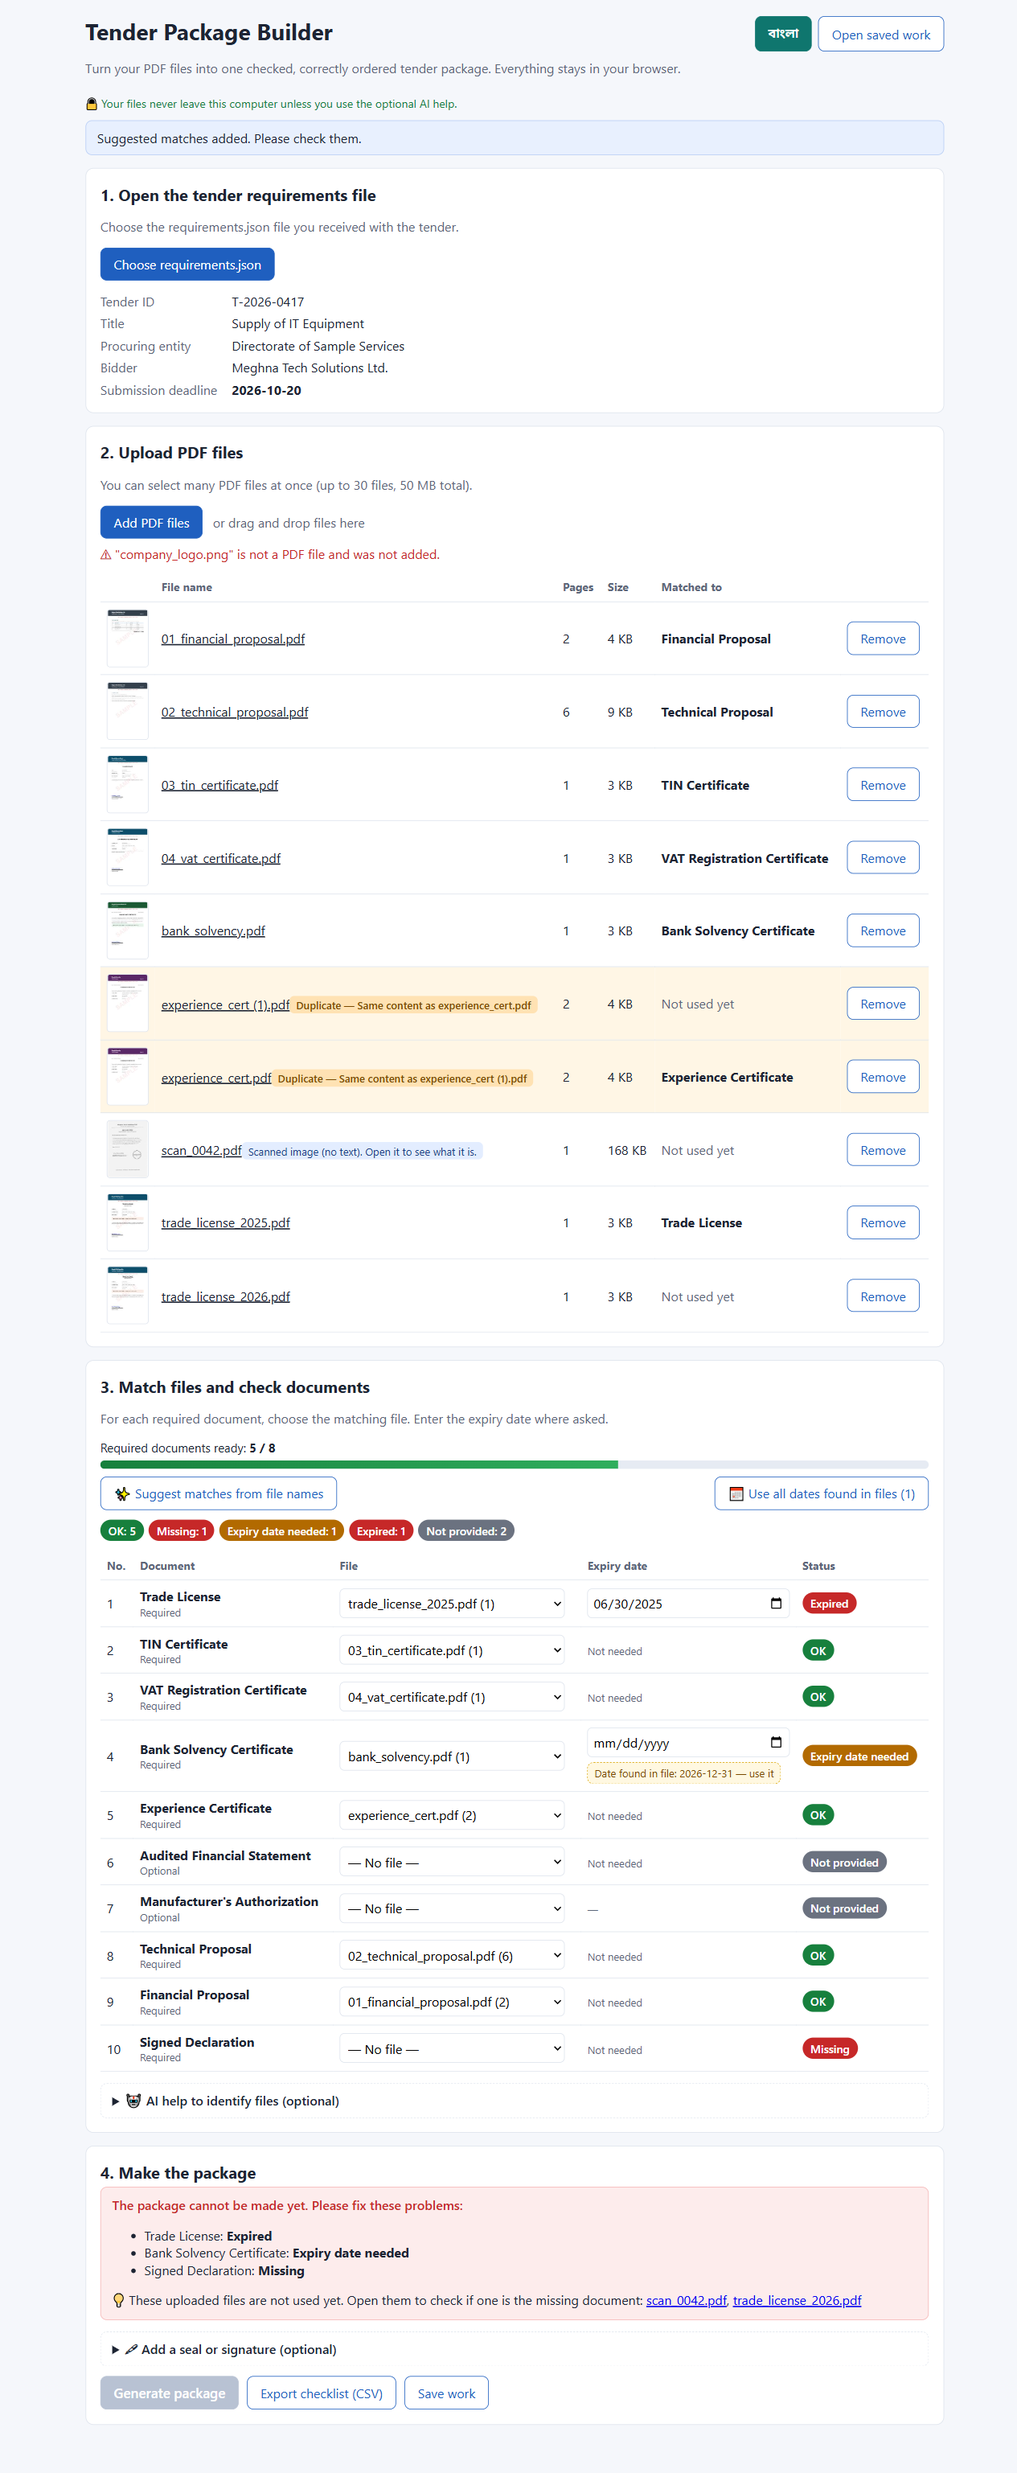
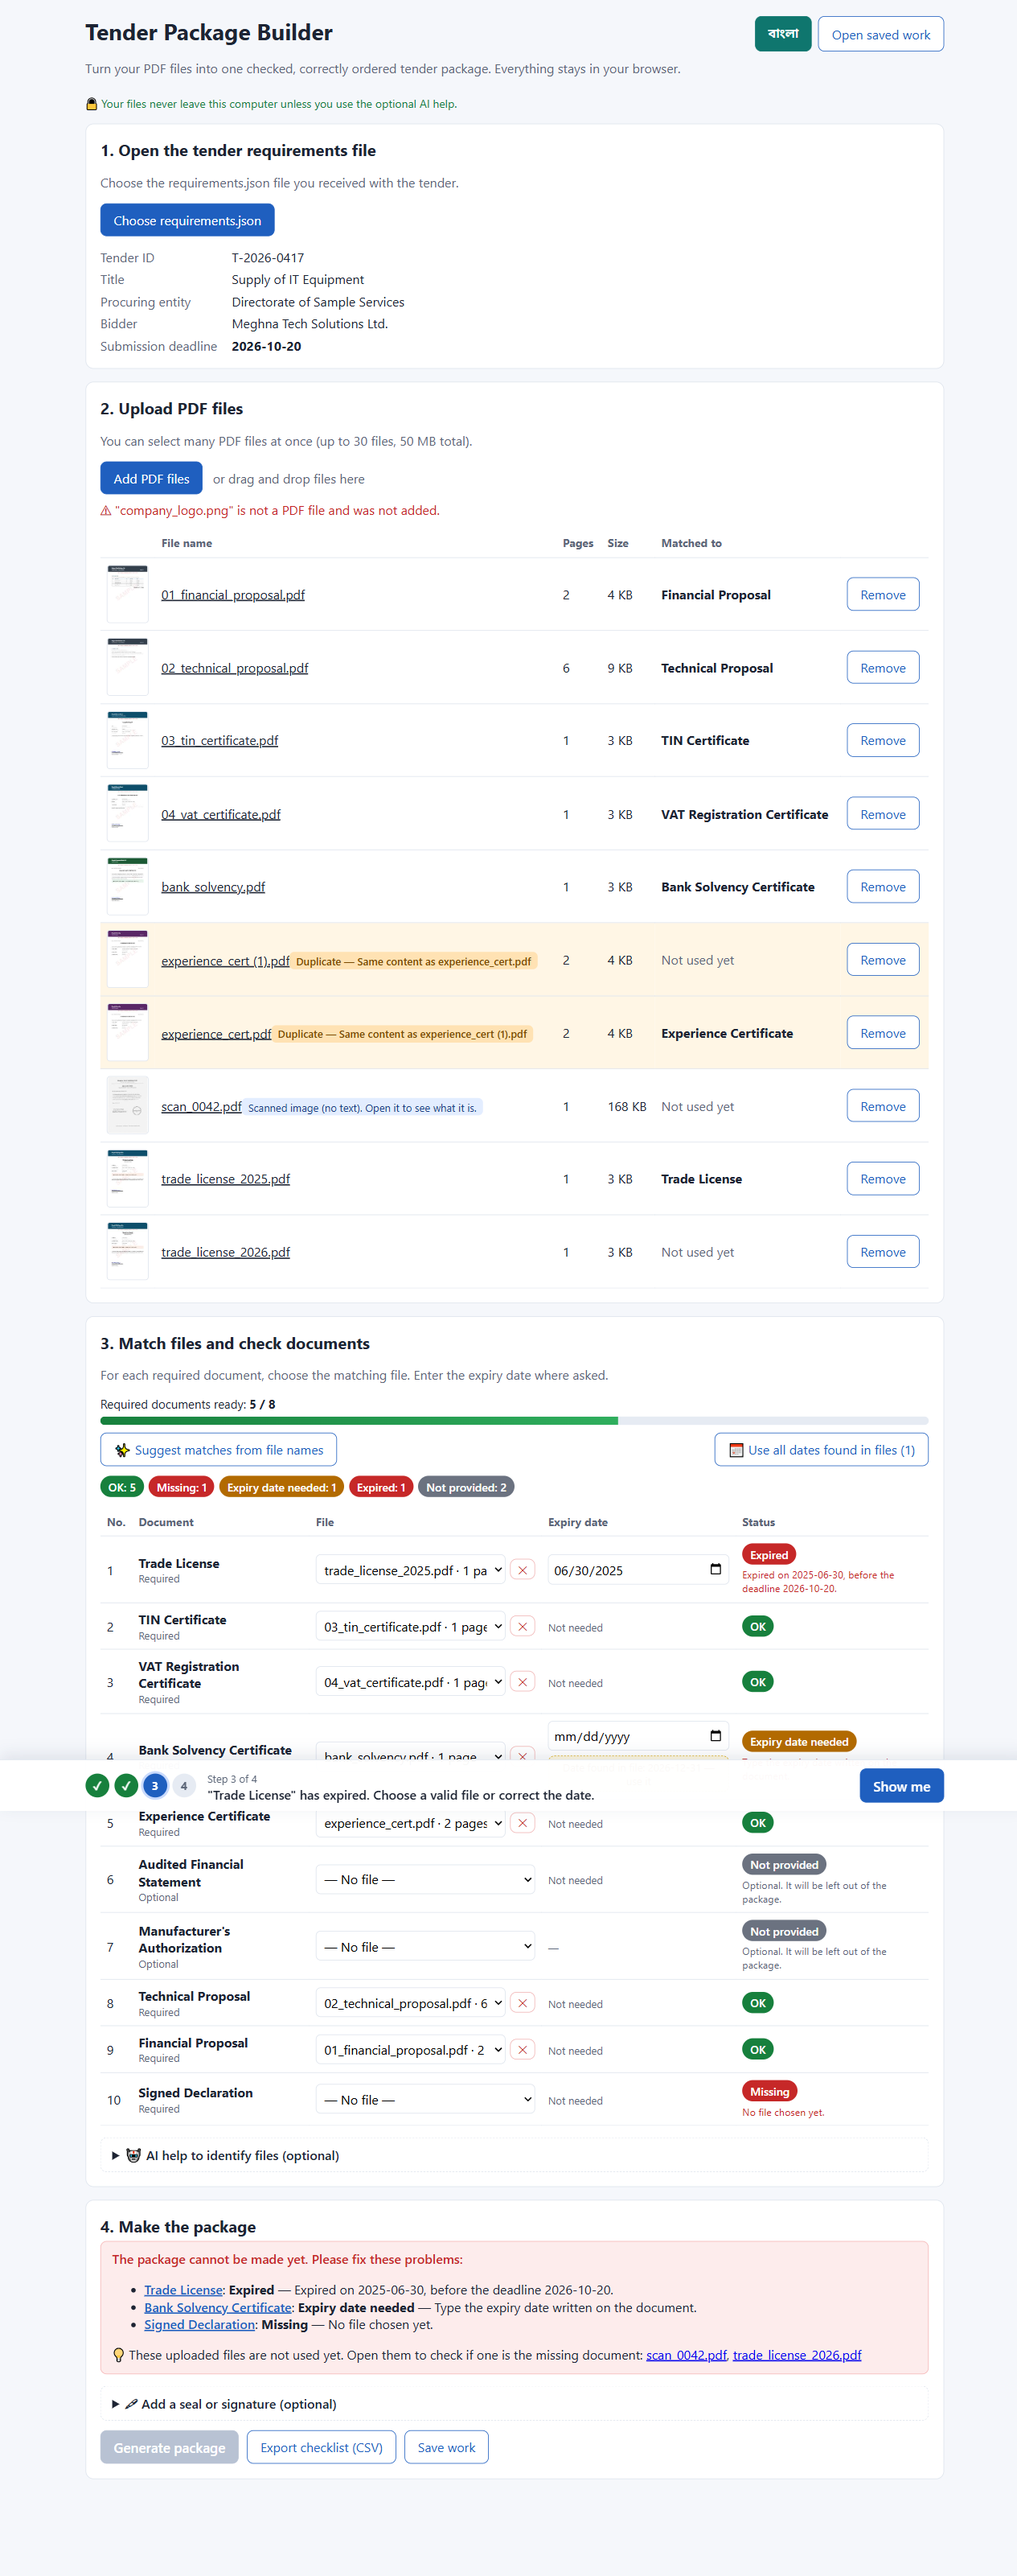
Final package and screenshots from the live site (incl. phone width), README lists the guided bar, status reasons and tolerant parsing
Prompt: "run another deep research on fronten , ui , ux, feature make all perfect and adnace and this hight competatiove vibe cofing hahthon also, consider other competitor are also super pro here,"

diff --git a/README.md b/README.md
@@ -7,6 +7,8 @@
 A frontend-only web app that turns a set of PDF files into **one complete, checked, correctly ordered tender package** (`<tender_id>_Package.pdf`). It works fully in Bangla and English. All processing happens inside the browser: no server, no database, and no file ever leaves the computer.
 
 ## How to use (for office staff)
+A **guided bar at the bottom of the screen** always shows the step you are on (1–4) and the one next thing to do, for example *"Enter the expiry date of Trade License"*. Its **Show me** button jumps to that row and puts the cursor in the right field.
+
 1. **Open `requirements.json`.** The tender details and the required documents appear, sorted by `order`.
 2. **Upload the PDF files.** Select many at once or drag and drop them. Each file shows a page-1 thumbnail, its page count and its size; click a file to open it. Non-PDF, damaged and password-protected files are rejected with a clear message. Identical files are marked **Duplicate**.
 3. **Match each document to a file.** Use the dropdown, or click **Suggest matches from file names**. Enter the expiry date where asked; the app shows any date it found in the file as a one-click hint.
@@ -25,13 +27,13 @@ Deployment: GitHub Pages through `.github/workflows/deploy.yml`, run on every pu
 ## Main tasks (problem statement §4–6)
 | # | Task | Status |
 |---|---|---|
-| 4.1 | Load `requirements.json`, show the tender details and the documents sorted by `order` (validated; a clear error for a bad file) | ✅ |
+| 4.1 | Load `requirements.json`, show the tender details and the documents sorted by `order` (validated, with a clear error for a bad file; also accepts a BOM, `"true"`/`"yes"` strings, a deadline with a time part, or a missing `order`) | ✅ |
 | 4.2 | Multi-file upload, file name + page count, non-PDF rejected with a message, remove any file | ✅ |
 | 4.3 | One file ↔ one document; change or undo at any time (a file used elsewhere is disabled) | ✅ |
 | 4.4 | Expiry date input for `has_expiry` documents that have a file (cleared when the file changes) | ✅ |
-| 4.5 | Status per document, updated instantly: Missing / Expiry date needed / Expired / Not provided / OK | ✅ |
+| 4.5 | Status per document, updated instantly: Missing / Expiry date needed / Expired / Not provided / OK. Each status has a plain reason underneath, e.g. *"Expired on 2025-06-30, before the deadline 2026-10-20"* | ✅ |
 | 4.6 | Duplicates found by SHA-256 of the content (any file name); a duplicate cannot be matched to a different document | ✅ |
-| 4.7 | Generate disabled while anything is blocking, with the reasons listed | ✅ |
+| 4.7 | Generate disabled while anything is blocking, with the reasons listed; clicking a reason jumps to that document | ✅ |
 | 4.8 | Download as `<tender_id>_Package.pdf` | ✅ |
 | 4.9 | Whole UI in Bangla and English; document names from `title_bn` / `title_en` | ✅ |
 | 6.1 | English cover: tender ID, title, procuring entity, bidder, deadline, date made, documents in order | ✅ |
@@ -50,6 +52,7 @@ Status rules follow §5 exactly. Dates are compared as `YYYY-MM-DD` strings (no 
 - ✅ **Bad files handled safely:** non-PDF (header check, not only the extension), damaged and password-protected PDFs, and the 30-file / 50 MB limits each get a clear message.
 - ✅ **AI help (optional):** the user types their own Anthropic API key, which stays in memory and is never saved. On click, only the unused files are sent (text, or a picture of page 1 for scanned files) to suggest matches. Everything else works without AI. No key is in this repository or the site.
 - ➕ **Package self-check:** after generating, the app re-opens the finished PDF and checks §6 on the real file: page count = cover + index + all document pages, the footer on every page, page 1 is the cover, each document starts on its page in tender order (compared with the original file), and no document text sits under the footer. The result is shown as ✔/✖ in Bangla or English.
+- ➕ **Made for non-technical users:** a guided next-step bar, a plain reason under every status, clickable problem list, an in-page file viewer (Esc closes), an undo (✕) button on each match, dropdowns that say which document already uses a file, messages that pop up where you can see them, and Bangla digits in Bangla mode. Accessible labels and visible keyboard focus throughout.
 - ➕ **Works offline:** an installable web app with a service worker. After one visit it runs with no internet, which suits offices with unreliable connections. Only the app's own files are cached, never tender documents.
 - ➕ **Package preview in the page:** check the cover, index and page numbers before downloading.
 - ➕ **Readiness bar** ("Required documents ready: 7 / 8") and an **early expiry warning** when a document is valid 30 days or less after the deadline. The warning does not block; the §5 rules stay exactly as written.
@@ -75,9 +78,10 @@ Result: [`output/T-2026-0417_Package.pdf`](output/T-2026-0417_Package.pdf), 17 p
 | All fixed: every status OK, package ready, preview | [`03_all_ok_package_ready_en.png`](screenshots/03_all_ok_package_ready_en.png) |
 | The same screen in Bangla | [`04_all_ok_bangla.png`](screenshots/04_all_ok_bangla.png) |
 | Offline mode | [`05_offline_mode.png`](screenshots/05_offline_mode.png) |
+| Phone width (390 px), Bangla, no sideways scrolling | [`06_mobile_bangla.png`](screenshots/06_mobile_bangla.png) |
 
 ## Known problems / limits
-- The cover page is English only, as the rules require; Bangla appears on the index page.
+- The cover page is English, as the rules require. If the tender details themselves are written in Bangla, they are drawn as browser-rendered images so they show correctly instead of "?". Bangla titles also appear on the index page.
 - To make room for the footer, each original page is scaled to about 96 %. Nothing is cut off or covered.
 - Links and form fields inside the source PDFs are not kept (each page is re-placed as embedded vector content, which keeps text and images sharp but drops interactive parts).
 - Expiry hints only work for PDFs with a text layer; scanned documents need the date typed in.
